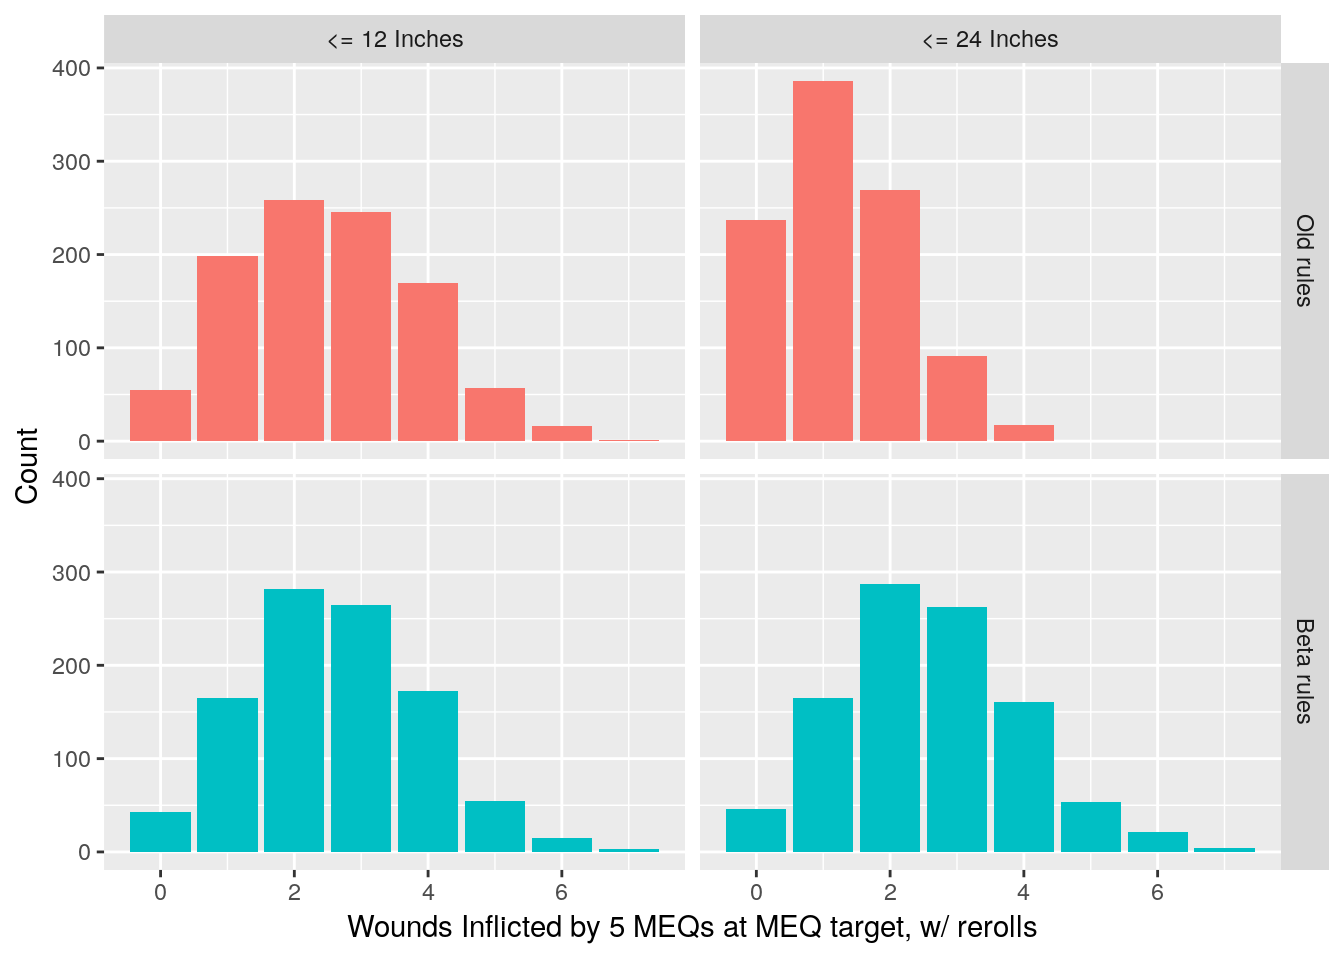
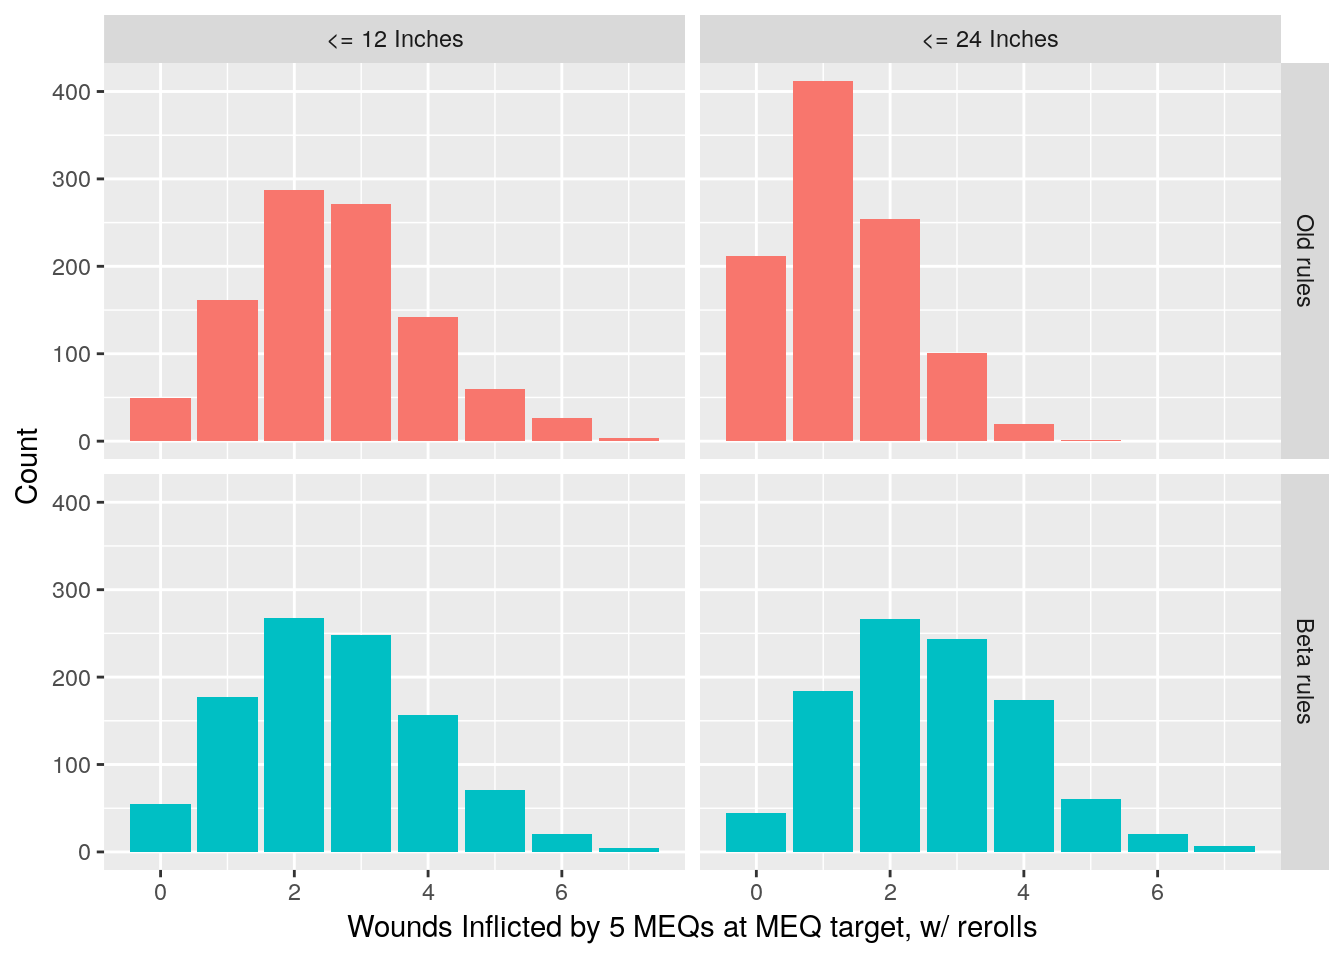
rerendered images

diff --git a/post/bolter-drill/index.html b/post/bolter-drill/index.html
@@ -399,7 +399,7 @@ results %&gt;%
   theme(legend.position = &#39;none&#39;) +
   NULL</code></pre>
 <p><img src="/post/2019-01-23-bolter-drill_files/figure-html/bolters-1.png" width="672" /></p>
-<p>Under the Old Rules there was almost no chance for a squad of Tactical Marines to one-shot 5 MEQs. With the new Beta rules, at less than 12 inches there is a much improved chance of handing out 5 wounds against MEQs.</p>
+<p>Under the Old Rules there was almost no chance for a squad of Tactical Marines to one-shot 5 MEQs. With the new Beta rules, tacticals have a much better damage output from where they should be – far away from assault units.</p>
 <p>What’s even better is that if DA Infantry can re-roll to-hit rolls of 1 if they stand still. Let’s take a look at that.</p>
 <pre class="r"><code>n &lt;- 1000
 codex_24 &lt;- replicate(n, to_attack(n = (1 * 5), skill = 3, reroll = 1)) %&gt;%
@@ -481,7 +481,7 @@ results %&gt;%
   theme(legend.position = &#39;none&#39;) +
   NULL</code></pre>
 <p><img src="/post/2019-01-23-bolter-drill_files/figure-html/terminator-1.png" width="672" /></p>
-<p>Terminators totally destroy MEQs with the new Beta rules, it is crazy!</p>
+<p>Terminators totally destroy MEQs at all ranges with the new Beta rules, it is crazy!</p>
 
     </div>
 
